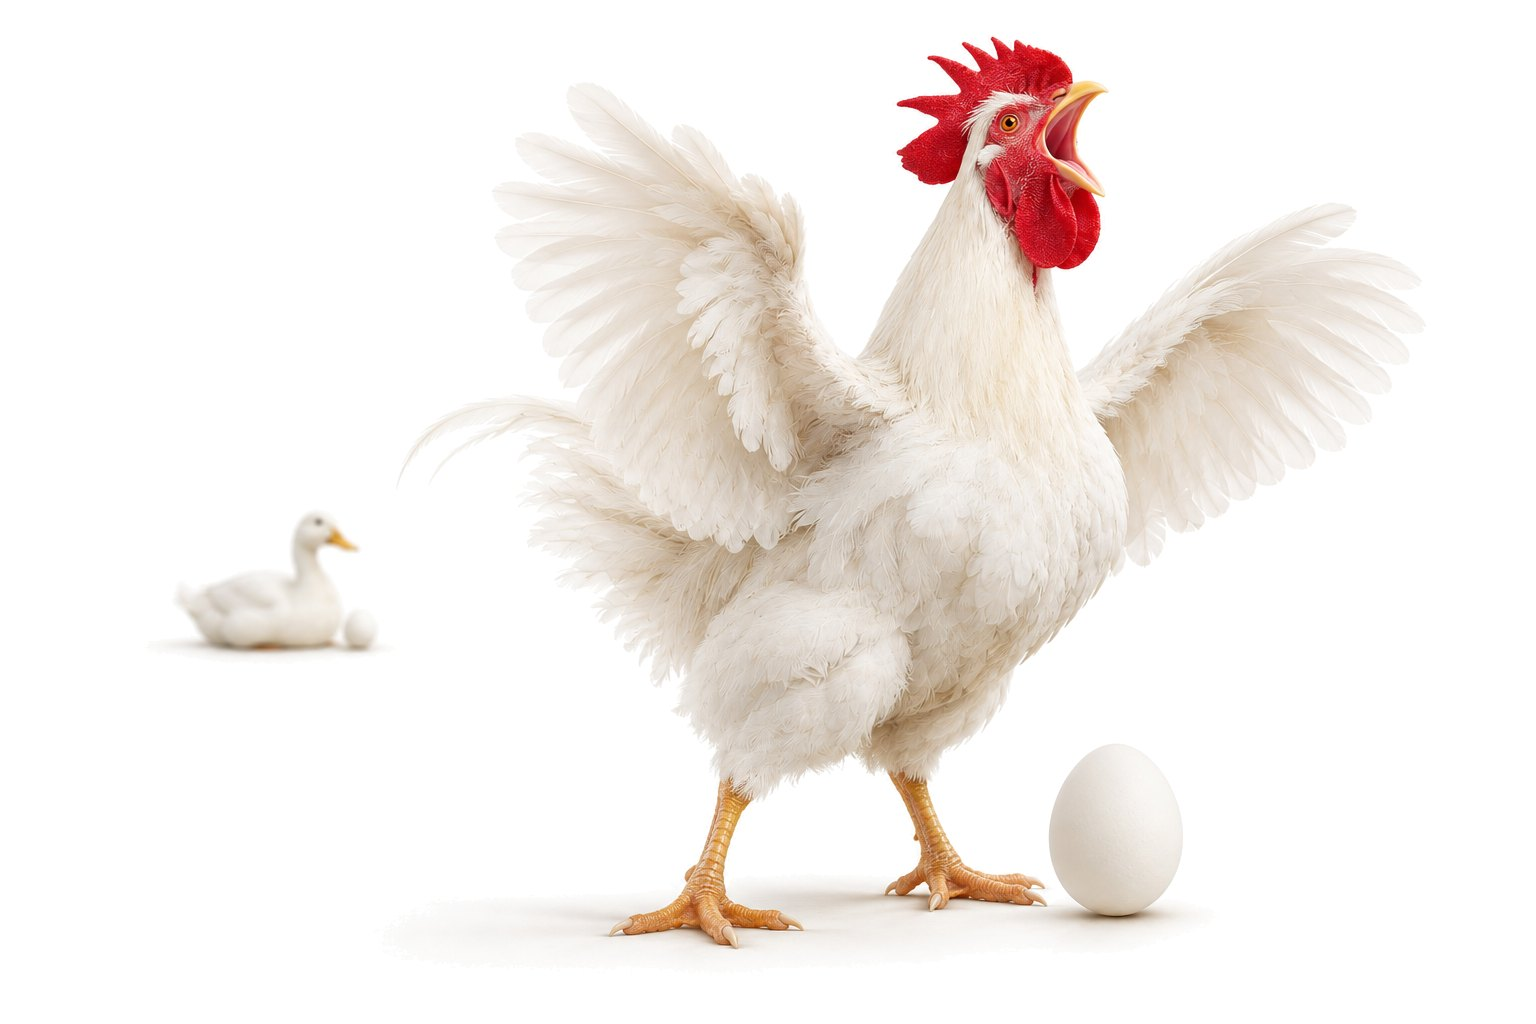
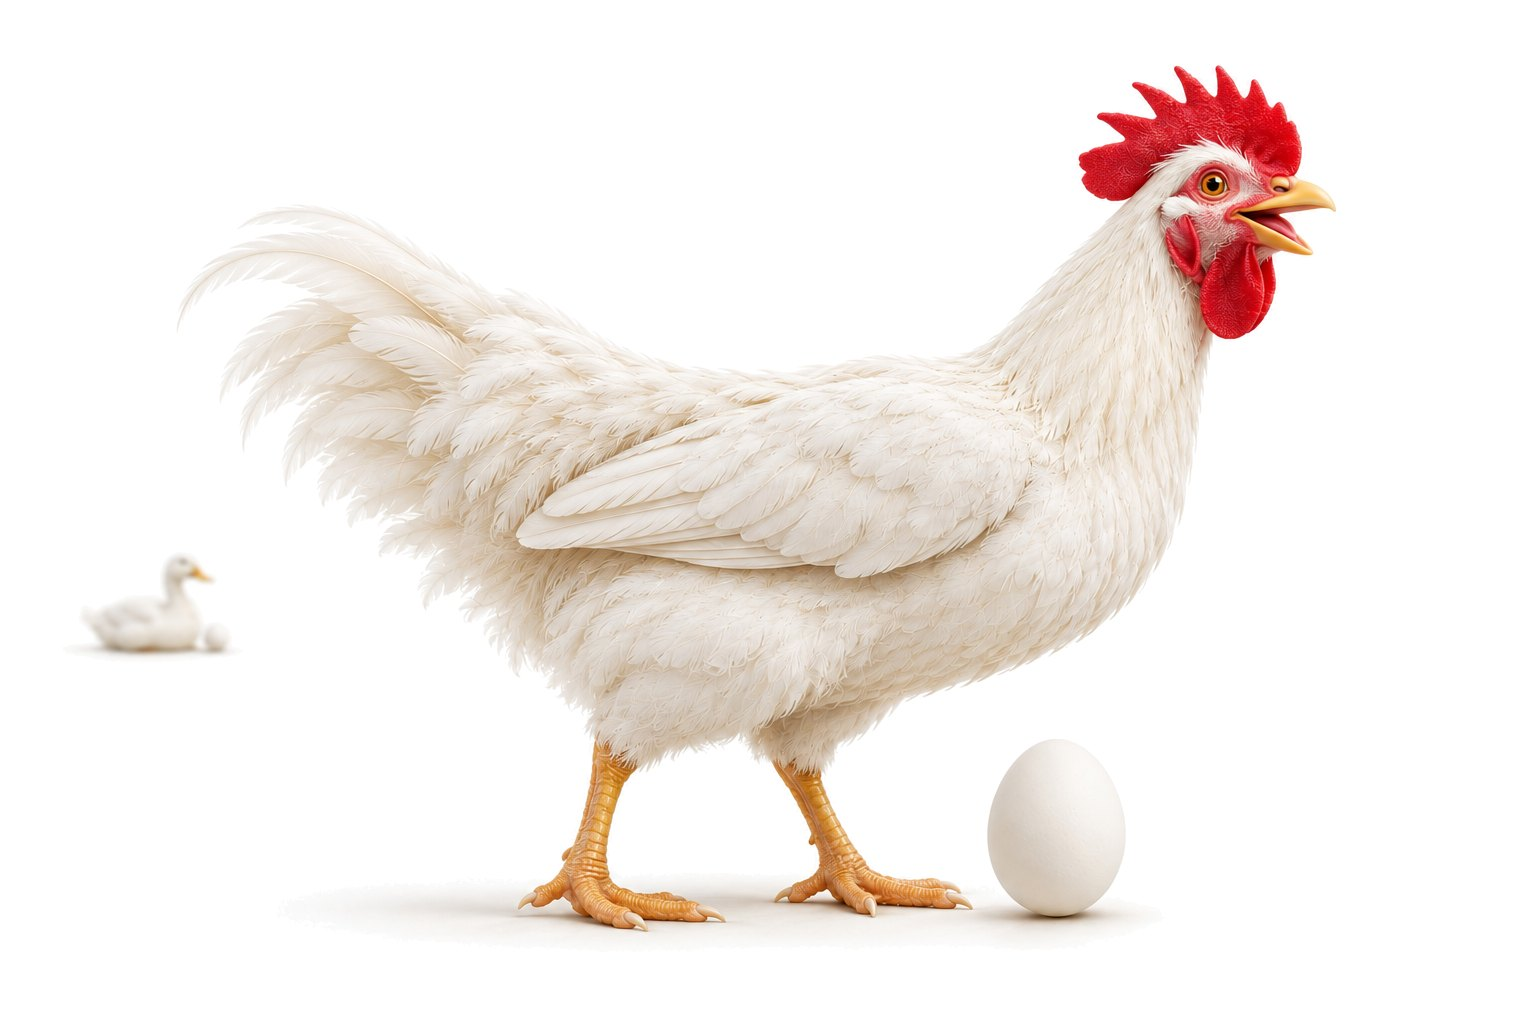
Slider: fünf überarbeitete Motive mit reinweißem Hintergrund
Claude-Session: https://claude.ai/code/session_01BjkEN2Gdq6Ygi9Db6ym7yL

Changed region(s): [[0.0625, 0.0312, 0.9062, 0.9375], [0.125, 0.25, 0.1562, 0.2812]]

diff --git a/site/index.html b/site/index.html
@@ -276,11 +276,11 @@ footer nav a{font-family:var(--body);text-transform:none;letter-spacing:0;font-w
           </div>
           <div class="slide" aria-roledescription="Folie" aria-label="2 von 5">
             <div class="txt"><p class="big">Hühner gackern dabei wie <span class="red">blöde.</span></p><p class="sub">Chicken cackle like crazy</p></div>
-            <div class="pic"><img src="img/slide-2-huhn.jpg" alt="Weißes Huhn legt ein Ei und gackert dabei lauthals mit ausgebreiteten Flügeln" width="1536" height="1024" loading="lazy"></div>
+            <div class="pic"><img src="img/slide-2-huhn.jpg" alt="Weißes Huhn legt frontal ein Ei, schreit lauthals mit weit aufgerissenem Schnabel und ausgebreiteten Flügeln, umgeben von Eiern" width="1536" height="1024" loading="lazy"></div>
           </div>
           <div class="slide" aria-roledescription="Folie" aria-label="3 von 5">
             <div class="txt"><p class="big">Was ist die <span class="red">Folge?</span></p><p class="sub">What is the result?</p></div>
-            <div class="pic"><img src="img/slide-3-huhn-ente.jpg" alt="Lautes Huhn mit Ei im Vordergrund, klein im Hintergrund eine stille Ente mit ihrem Ei" width="1536" height="1024" loading="lazy"></div>
+            <div class="pic"><img src="img/slide-3-huhn-ente.jpg" alt="Gackerndes Huhn mit Ei im Vordergrund, klein im Hintergrund eine stille Ente mit ihrem Ei" width="1536" height="1024" loading="lazy"></div>
           </div>
           <div class="slide" aria-roledescription="Folie" aria-label="4 von 5">
             <div class="txt"><p class="big">Alle Welt kauft <span class="red">Hühnereier!</span></p><p class="sub">The whole world buys chicken eggs</p></div>
